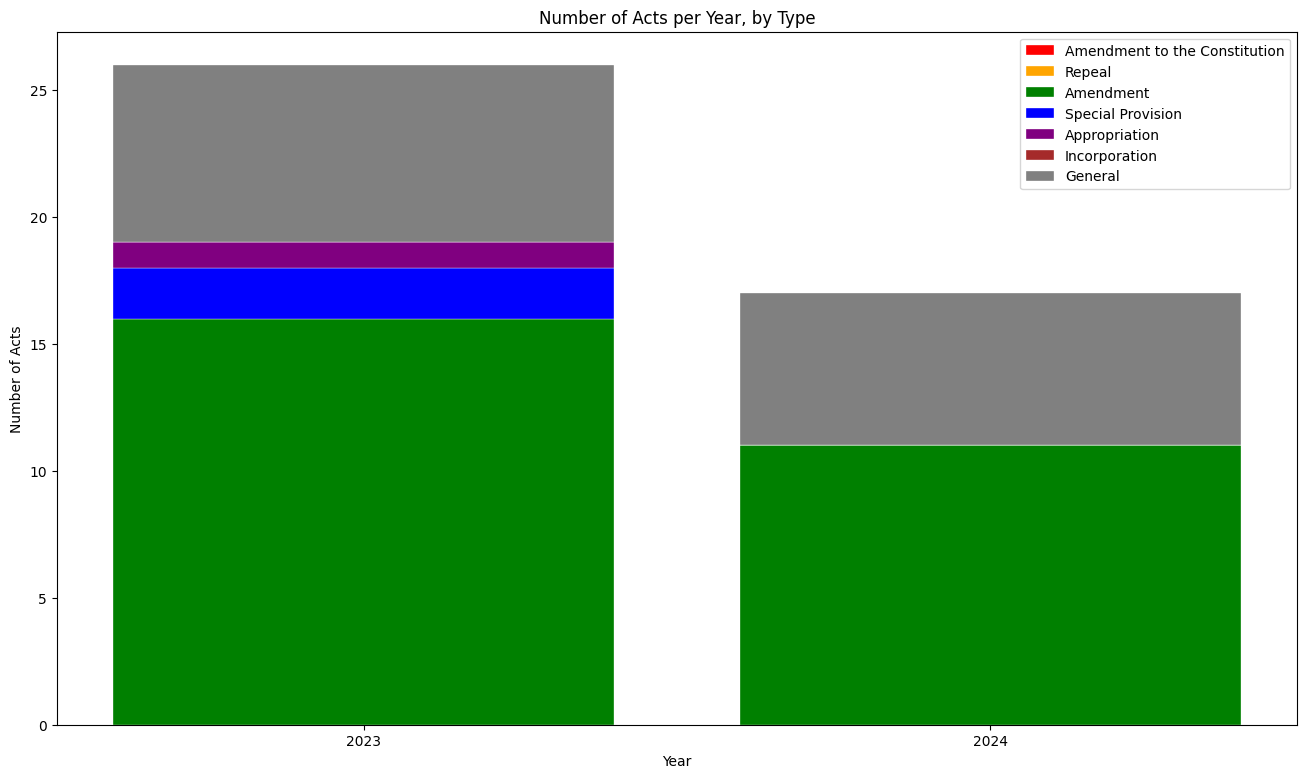
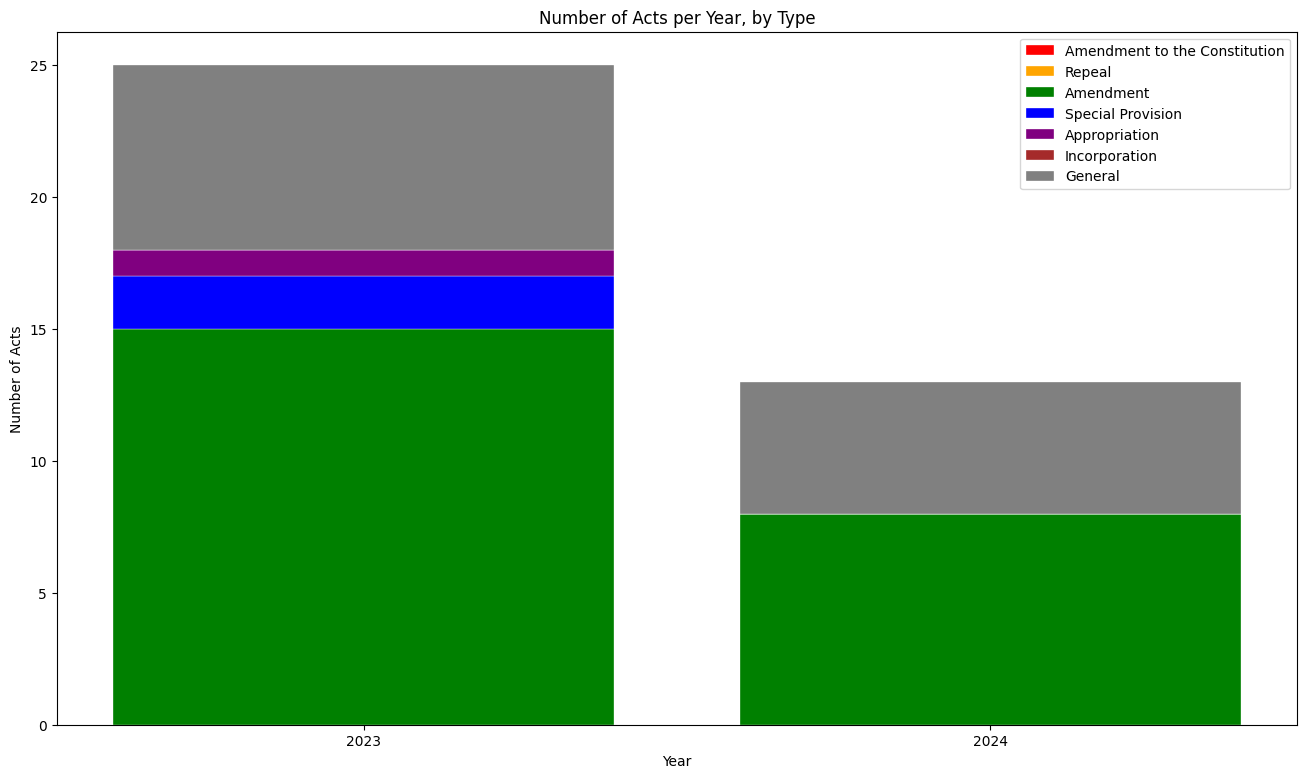
🤖 [build_readme.yml] 2025-08-17-0536

diff --git a/README.md b/README.md
@@ -1,32 +1,28 @@
 # 🇱🇰 Acts from the Sri Lankan Parliament ([lk_acts](https://github.com/nuuuwan/lk_acts))
 
-Scraped  **43** acts (0.01 MB) from [www.parliament.lk](https://www.parliament.lk/en) as of **2025-08-17 10:37:57**.
+Scraped  **38** acts (0.14 MB) from [www.parliament.lk](https://www.parliament.lk/en) as of **2025-08-17 11:06:42**.
 
 ![Year Chart](images/chart_year.png)
 
-## Acts (43)
+## Acts (38)
 
-### 2024 (17)
+### 2024 (13)
 
 - 🟢 `28/2024` [Shop and Office Employees (Regulation of Employment and Remuneration) (Amendment)](data/acts/2020s/2024/2024-028) (2024-05-13)
 - 🟢 `23/2024` [Companies (Amendment)](data/acts/2020s/2024/2024-023) (2024-04-01)
 - 🟢 `22/2024` [Inland Trust Receipts (Amendment)](data/acts/2020s/2024/2024-022) (2024-04-01)
 - 🟢 `21/2024` [Finance Leasing (Amendment)](data/acts/2020s/2024/2024-021) (2024-04-01)
-- 🟢 `20/2024` [Mortgage (Amendment)](data/acts/2020s/2024/2024-020) (2024-04-01)
 - 🟢 `19/2024` [Trust Receipts (Amendment)](data/acts/2020s/2024/2024-019) (2024-04-01)
-- 🟢 `18/2024` [Registration of Documents (Amendment)](data/acts/2020s/2024/2024-018) (2024-04-01)
 - ⚪ `17/2024` [Secured Transactions](data/acts/2020s/2024/2024-017) (2024-04-01)
 - ⚪ `9/2024` [Online Safety](data/acts/2020s/2024/2024-009) (2024-02-01)
 - ⚪ `8/2024` [Contempt of a Court, Tribunal or Institution](data/acts/2020s/2024/2024-008) (2024-02-01)
 - ⚪ `7/2024` [National Hydrographic Act](data/acts/2020s/2024/2024-007) (2024-02-01)
-- 🟢 `6/2024` [Notaries (Amendment)](data/acts/2020s/2024/2024-006) (2024-01-31)
 - ⚪ `5/2024` [The Recognition and Enforcement of International Settlement Agreements Resulting From Mediation](data/acts/2020s/2024/2024-005) (2024-01-31)
 - 🟢 `4/2024` [Prevention of Frauds (Amendment)](data/acts/2020s/2024/2024-004) (2024-01-23)
 - 🟢 `3/2024` [Powers of Attorney (Amendment)](data/acts/2020s/2024/2024-003) (2024-01-23)
 - 🟢 `2/2024` [Mediation Board (Amendment) Act](data/acts/2020s/2024/2024-002) (2024-01-23)
-- ⚪ `1/2024` [Office for National Unity and Reconciliation](data/acts/2020s/2024/2024-001) (2024-01-23)
 
-### 2023 (26)
+### 2023 (25)
 
 - 🟣 `34/2023` [Appropriation](data/acts/2020s/2023/2023-034) (2023-12-13)
 - ⚪ `33/2023` [Finance](data/acts/2020s/2023/2023-033) (2023-12-13)
@@ -51,7 +47,6 @@ Scraped  **43** acts (0.01 MB) from [www.parliament.lk](https://www.parliament.l
 - ⚪ `10/2023` [Assistance to and Protection of Victims of Crime and Witnesses](data/acts/2020s/2023/2023-010) (2023-08-08)
 - ⚪ `9/2023` [ANTI-CORRUPTION](data/acts/2020s/2023/2023-009) (2023-08-08)
 - 🟢 `8/2023` [Carriage by Air (Amendment)](data/acts/2020s/2023/2023-008) (2023-07-14)
-- 🟢 `7/2023` [Civil Procedure Code (Amendment)](data/acts/2020s/2023/2023-007) (2023-06-27)
 - ⚪ `6/2023` [Parliamentary Budget Office](data/acts/2020s/2023/2023-006) (2023-06-27)
 - 🟢 `4/2023` [Inland Revenue (Amendment)](data/acts/2020s/2023/2023-004) (2023-05-08)
 
